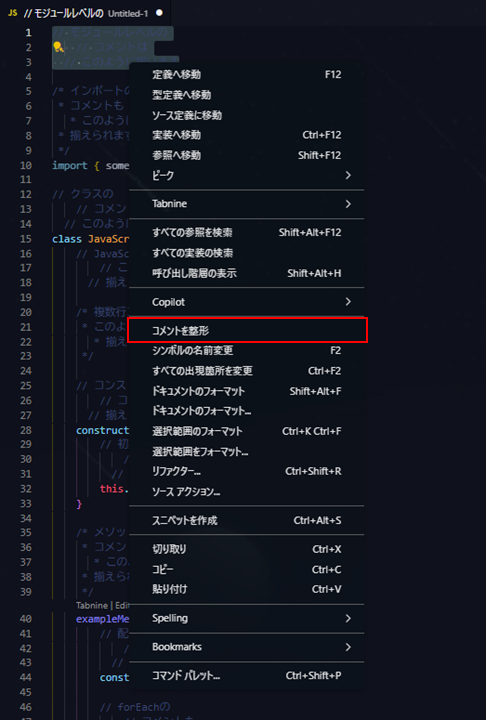
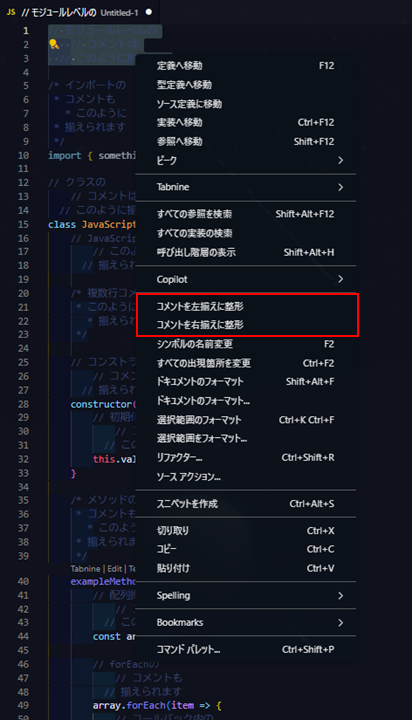
readmeと画像等を修正

diff --git a/out/extension.js b/out/extension.js
@@ -34,7 +34,6 @@ var __importStar = (this && this.__importStar) || (function () {
 })();
 Object.defineProperty(exports, "__esModule", { value: true });
 exports.activate = activate;
-exports.deactivate = deactivate;
 const vscode = __importStar(require("vscode"));
 const languageRules_1 = require("./utils/languageRules");
 function formatComments(editor, alignment) {
@@ -115,5 +114,4 @@ function activate(context) {
     });
     context.subscriptions.push(leftDisposable, rightDisposable);
 }
-function deactivate() { }
 //# sourceMappingURL=extension.js.map

diff --git a/src/extension.ts b/src/extension.ts
@@ -91,5 +91,3 @@ export function activate(context: vscode.ExtensionContext) {
 
     context.subscriptions.push(leftDisposable, rightDisposable);
 }
-
-export function deactivate() {}

diff --git a/README.md b/README.md
@@ -10,7 +10,7 @@ A Visual Studio Code extension that aligns comment indentation to make your code
 
 ### Demo
 
-<p align="center"><img src="https://github.com/user-attachments/assets/be91f613-d954-4e39-85a2-643a5c110ae7" style="filter: drop-shadow(10px 10px 10px rgba(0, 0, 0, 0.5));"/></p>
+<p align="center"><img src="" style="filter: drop-shadow(10px 10px 10px rgba(0, 0, 0, 0.5));"/></p>
 
 ## Features ✨
 
@@ -38,6 +38,8 @@ A Visual Studio Code extension that aligns comment indentation to make your code
    - "Align Comments Left" for minimum indentation
    - "Align Comments Right" for maximum indentation
 3. Comments will be aligned according to your choice
+
+<img src="" height=250 style="filter: drop-shadow(10px 10px 10px rgba(0, 0, 0, 0.5));"></img>
 
 ### Example
 

diff --git a/README.ja.md b/README.ja.md
@@ -10,7 +10,7 @@
 
 ### 動作例
 
-<p align="center"><img src="https://github.com/user-attachments/assets/be91f613-d954-4e39-85a2-643a5c110ae7" style="filter: drop-shadow(10px 10px 10px rgba(0, 0, 0, 0.5));"/></p>
+<p align="center"><img src="" style="filter: drop-shadow(10px 10px 10px rgba(0, 0, 0, 0.5));"/></p>
 
 ## 機能 ✨
 
@@ -38,6 +38,8 @@
    - 「コメントを左揃えに整形」で最小インデントに揃える
    - 「コメントを右揃えに整形」で最大インデントに揃える
 3. 選択した方法でコメントが整形されます
+
+<img src="" height=250 style="filter: drop-shadow(10px 10px 10px rgba(0, 0, 0, 0.5));"></img>
 
 ## 例
 

diff --git a/CHANGELOG.md b/CHANGELOG.md
@@ -10,7 +10,7 @@ Check [Keep a Changelog](http://keepachangelog.com/) for recommendations on how 
 - Initial release
 - Support for formatting comment indentation in multiple languages:
   - TypeScript/JavaScript (`//`, `/* */`)
-  - Python (`#`, `"""`, `'''`)
+  - Python (`#`)
   - Java (`//`, `/* */`)
   - C/C++ (`//`, `/* */`)
   - C# (`//`, `/* */`)
